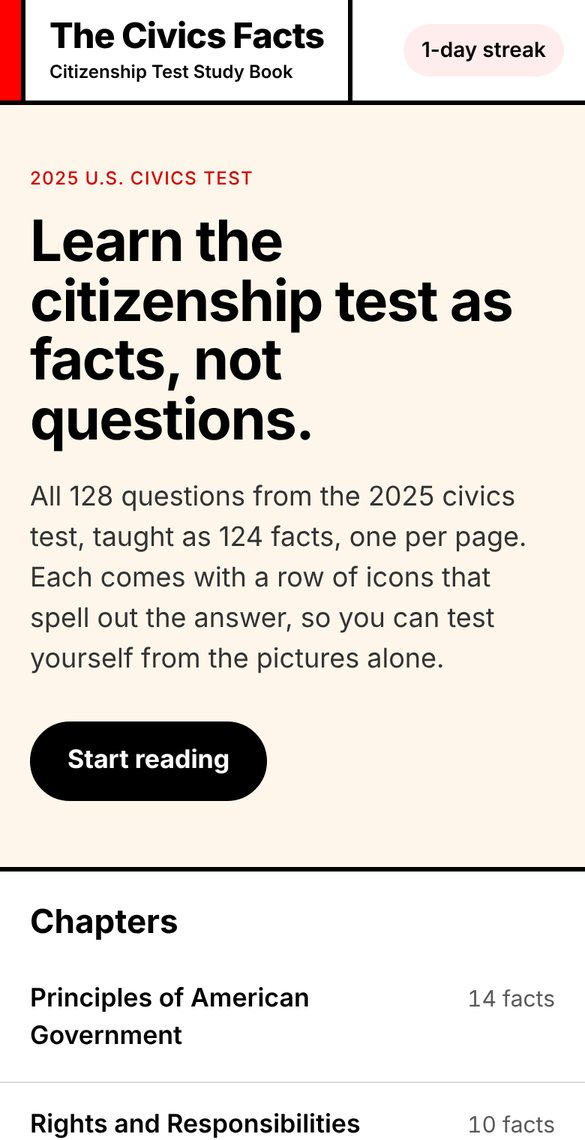
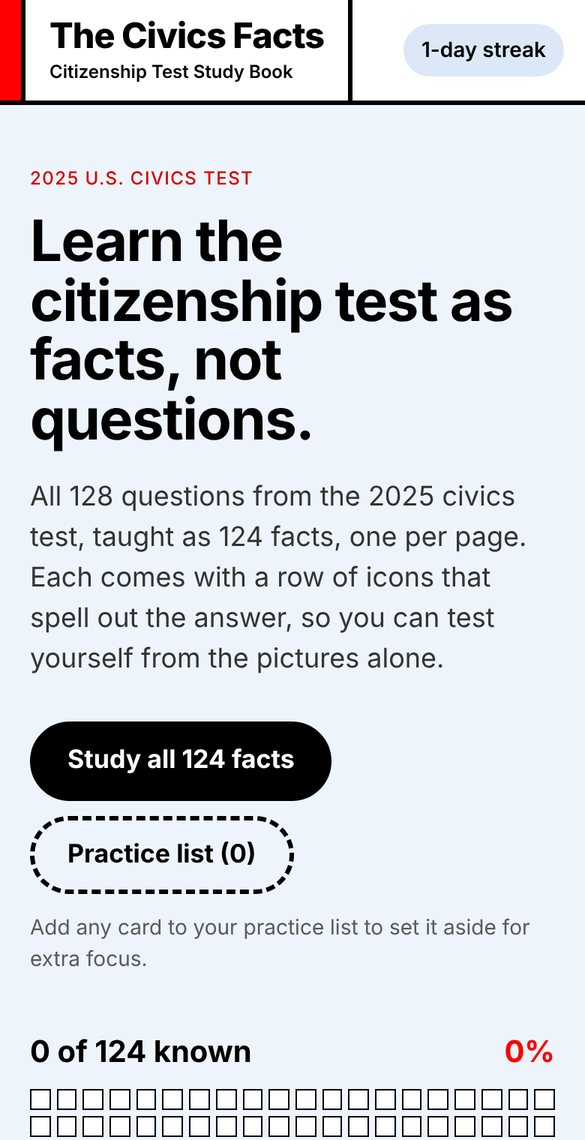
Sync civics app ice blue palette and retake case study screenshots
Claude-Session: https://claude.ai/code/session_015WQEqSw6XqsMYnf1PRW3Gp

Changed region(s): [[0.0, 0.614, 1.0, 1.0], [0.6769, 0.0, 0.9846, 0.0921]]

diff --git a/civics-app/index.html b/civics-app/index.html
@@ -11,7 +11,7 @@
 <link href="https://fonts.googleapis.com/css2?family=Inter+Tight:wght@600;700;800&family=Inter:wght@400;500;600;700&display=swap" rel="stylesheet">
 <style>
   :root {
-    --cream: #FFF6EB;
+    --cream: #EEF4FB;
     --white: #FFFFFF;
     --black: #000000;
     --text: #333333;
@@ -19,7 +19,7 @@
     --hair: rgba(0,0,0,.14);
     --red: #FF0000;
     --red-text: #D60000;
-    --pink: #FFEDED;
+    --pink: #DCE8F7;
     --rule: 3px solid var(--black);
     --display: "Helvetica Now Display", "Helvetica Neue", Helvetica, "Inter Tight", Arial, sans-serif;
     --ui: "Helvetica Now Text", "Helvetica Neue", Helvetica, "Inter", Arial, sans-serif;
